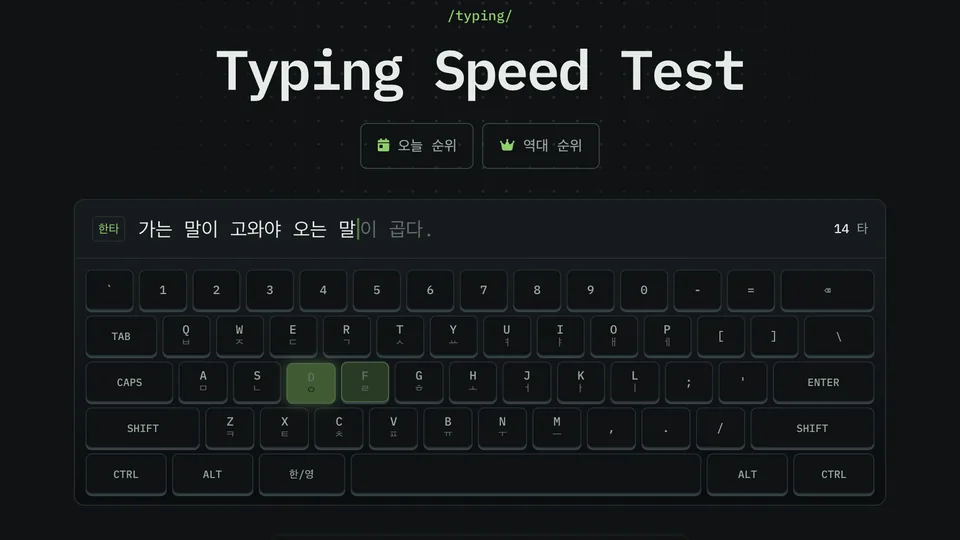
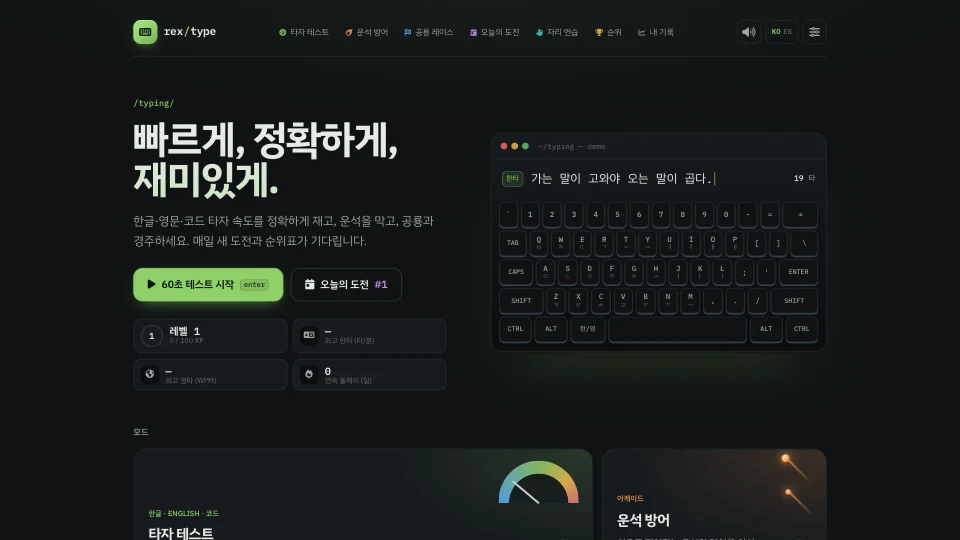
site: the island, palette, social card and README describe rex/type
- the home page's typing panel lists the new modes, with a new capture
  of the game's home
- the palette links straight to meteor defense, the dino race, the
  daily challenge and the key drills
- the social card carries the new description
- README: the typing game's modules, how a run is measured, the
  leaderboard collections and the tests; Bootstrap 4 is gone

diff --git a/index.html b/index.html
@@ -106,10 +106,10 @@
         <section class="stop stop-right" id="typing" data-stop="1" data-place="Stone keyboard" aria-labelledby="typing-title">
             <img class="stop-poster" src="/assets/island/typing.webp" alt="" width="1600" height="900" decoding="async" loading="lazy">
             <div class="panel">
-                <figure class="panel-media"><img src="/assets/island/shots/typing.webp" alt="The typing game: its title above a keyboard that is typing a Korean sentence by itself" width="960" height="540" loading="lazy" decoding="async"></figure>
+                <figure class="panel-media"><img src="/assets/island/shots/typing.webp" alt="The typing game: rex/type's home, its modes beside a keyboard that is typing a Korean sentence by itself" width="960" height="540" loading="lazy" decoding="async"></figure>
                 <span class="eyebrow">/typing/</span>
                 <h2 id="typing-title">Type faster, in Korean or English.</h2>
-                <p>Four modes &mdash; 한타, 영타, a company mode and a developer mode &mdash; with daily and all-time leaderboards on Firebase. The stones out here are only warming up; the real thing keeps score.</p>
+                <p>Speed tests in 한글, English and code, a meteor shower to stop, dinosaurs to race, key drills and a daily challenge &mdash; with daily and all-time leaderboards on Firebase. The stones out here are only warming up; the real thing keeps score.</p>
                 <p class="panel-hint only-keys" data-needs-world><kbd>A</kbd>&ndash;<kbd>Z</kbd> light the stones. Try it.</p>
                 <div class="panel-actions">
                     <a class="btn btn-primary" href="/typing/index.html">Play the typing game <span class="arrow">→</span></a>

diff --git a/js/palette.js b/js/palette.js
@@ -13,7 +13,11 @@
     var INDEX = {
         pages: [
             { title: 'Home', path: '/', hint: 'rexyrex.github.io', keys: 'index start landing rex home' },
-            { title: 'Typing Speed Test', path: '/typing/index.html', hint: '/typing/', keys: 'typing 한타 영타 타자 keyboard wpm leaderboard game' },
+            { title: 'Typing Speed Test', path: '/typing/index.html', hint: '/typing/', keys: 'typing 한타 영타 타자 keyboard wpm leaderboard game test code' },
+            { title: 'Meteor defense', path: '/typing/#/meteor', hint: '/typing/ · type the words before they land', keys: 'typing meteor 운석 산성비 arcade falling words game' },
+            { title: 'Dino race', path: '/typing/#/race', hint: '/typing/ · race three dinosaurs', keys: 'typing race 레이스 공룡 dinosaur versus' },
+            { title: 'Daily typing challenge', path: '/typing/#/daily', hint: '/typing/ · one text a day', keys: 'typing daily 오늘의 도전 challenge share' },
+            { title: 'Key drills', path: '/typing/#/drills', hint: '/typing/ · learn the keyboard', keys: 'typing drills 자리 연습 home row 두벌식 practice' },
             { title: 'Deadly Balloons 3', path: '/deadlyBalloons/index.html', hint: '/deadlyBalloons/', keys: 'balloons browser game bullet hell shooter trailer play' },
             { title: 'Play Deadly Balloons 3', path: '/deadlyBalloons/play/', hint: '/deadlyBalloons/play/', keys: 'balloons play game browser bullet hell shooter' },
             { title: 'Music', path: '/music/showcase.html', hint: '/music/', keys: 'music soundcloud superpose newgrounds tracks audio' },

diff --git a/README.md b/README.md
@@ -7,7 +7,7 @@ Personal GitHub Pages site for [rexyrex](https://github.com/rexyrex) — an inde
 | Path | What it is |
 |---|---|
 | `/` | Home page: **the island**. Eleven stops, one per part of the site; scrolling or pressing a place glides a camera across a live Late Cretaceous island to it, with that section's content in a panel. Stills of every stop stand in where the live world cannot run — see [The island](#the-island-indexhtml) |
-| `/typing/` | Typing speed game — Korean / English / programmer modes, Firebase leaderboards (jQuery + Bootstrap 4.6 + Firebase compat 8) |
+| `/typing/` | **rex/type**, the typing game: speed tests in Korean, English and code, meteor defense, a dino race, key drills and a daily challenge, with Firebase leaderboards. Plain ES modules, no framework — see [The typing game](#the-typing-game-typing) |
 | `/deadlyBalloons/` | Landing page for Deadly Balloons 3 (dependency-free): the trailer (`trailer.mp4`, made with HyperFrames from real gameplay; source and `make.sh` in `_tools/db3-trailer/`) and a link to the game |
 | `/deadlyBalloons/play/` | **Deadly Balloons 3** itself: the production build (`npm run build` → `dist/`) of the private `rexyrex/Deadly-Balloons-3` repository, copied in as is. Relative paths, its own service worker (offline play) and web manifest. Rebuild and recopy to update; never edit it here |
 | `/music/showcase.html` | Music page with a SoundCloud embed and links out |
@@ -32,7 +32,7 @@ Everything is styled from `/css/index.css`:
 - **Eyebrows are real paths.** Section labels like `/apps/` and `/typing/` are the actual URLs of what they introduce.
 - **Cross-document view transitions.** `index.css` opts every page in with `@view-transition { navigation: auto }`, so same-origin navigations crossfade. The top bar and status bar carry `view-transition-name`s (`navbar.css`) and hold still. Reduced motion turns it off.
 
-The typing game has its own stylesheet (`typing/css/typespeed2.css`) layered on top of Bootstrap 4 and `index.css`; the animation lab keeps its effect CSS inline and only its page chrome uses the tokens.
+The typing game has its own stylesheet (`typing/css/typespeed2.css`) on top of `index.css` and nothing else; the animation lab keeps its effect CSS inline and only its page chrome uses the tokens.
 
 ## The island (`/index.html`)
 
@@ -154,16 +154,42 @@ python3 _tools/paths/check.py --update   # after adding pages: appends them to t
 
 `css/motion.css` + `js/motion.js` (dependency-free) reveal `[data-reveal]` elements and the children of `[data-reveal-group]` as they scroll in. Browsers with CSS scroll-driven animations do it in the stylesheet alone (`animation-timeline: view()`, `animation-range: entry 0% entry 40%`) and `motion.js` steps aside when `CSS.supports` says so; everywhere else the script marks `html.motion-ready` and toggles `.is-in` with an IntersectionObserver. Nothing is hidden unless one of the two can reveal it. Page extras:
 
-- `/typing/` — `typing/js/keyboard-hero.js` draws a QWERTY + 두벌식 keyboard in the landing hero and types sample sentences on it, decomposing Hangul syllables into the real jamo keystrokes so the right keys light up (real key presses light them too). It lives inside `.hero-section-typing`, so the game's show/hide logic still covers it.
+- `/typing/` — `typing/js/keyboard-hero.js` draws a QWERTY + 두벌식 keyboard in the game's home view and types sample sentences on it, decomposing Hangul syllables into the real jamo keystrokes so the right keys light up (real key presses light them too). It pauses whenever the home view is hidden.
 - `/deadlyBalloons/` — the balloon rain uses Deadly Balloons 3's own sprites (`res/img/db3/`, exported from the game's texture atlas), varies in size and depth, and balloons pop when clicked (shards, ring, "+100", a counter in the card).
 - `/music/` — a CSS equaliser above the player. `/support/` — a pulsing "replies within a day or two" status. `/404.html` — the rex looks left and right.
+
+## The typing game (`/typing/`)
+
+**rex/type** is one page (`typing/index.html`) with hash routes, so every mode has a link: `#/` home, `#/test`, `#/daily`, `#/drills`, `#/meteor`, `#/race`, `#/ranks`, `#/stats` (and `#/result` after a run). Plain ES modules under `typing/js/`, no framework; the page loads Font Awesome, the Firebase compat SDK (deferred) and `data/simple_words.js` besides.
+
+| Module | Job |
+|---|---|
+| `hangul.js` | Hangul ↔ 두벌식 keystrokes (한 → `gks`). Stroke counts (타수), "is this composing syllable a correct step toward the target" (한 is on the way to 하나: `gks` is a prefix of `gksk`), the next key for the keyboard hint |
+| `engine.js` | `Session`: judges every character, scores lines, keeps the clock and per-second samples. No DOM, tested in Node |
+| `content.js` | Seeded text sources (`makeSource`), balanced line wrapping, the daily text, word pools for the arcade modes, and the original silly-sentence machine (plus the 이포넷 office variant) |
+| `stage.js` | The typing surface: four lines, smooth caret, pace ghost, HUD, and a visible prompt that holds the real `<input>` so the IME composes in it on every platform |
+| `app.js` | Routing, the test / daily / drill flow, results, leaderboards, stats, settings |
+| `result.js` | Result screen: tier badge, numbers, SVG speed chart, character breakdown, missed words, missed-key heat map, share text |
+| `meteor.js`, `race.js` | Meteor defense (falling words, lives, combos, gold / ice / bomb / heart meteors) and the dino race (three bots paced to the player's recent average) |
+| `drills.js`, `keyboard.js` | Key drills (rows, double consonants, numbers, symbols, weak keys) and the on-screen keyboard with finger colours, next-key hints and the heat map |
+| `store.js` | Everything kept on the device, in `localStorage` under `rex-type`: settings, history, personal bests, per-key accuracy, XP and level, streak, achievements |
+| `board.js` | Firestore leaderboards |
+| `i18n.js`, `grades.js`, `sound.js` | Korean / English interface strings, tiers and titles, Web Audio sound effects |
+
+Content lives in `typing/data/`: `ko.js` (proverbs, quotes, sentences, paragraphs, 800 words), `en.js` (top 200 words, quotes, original paragraphs, hard words), `code.js` (12 snippets in each of 10 languages), and the older `simple_words.js` (the normal English list). Every string is plain typeable text: no smart quotes, dashes or tabs. `nouns.js`, `verbs.js`, `adjectives.js` and the old `js/transit.js`, `js/sent_generator.js`, `js/prg_sent.js` are no longer loaded; they stay because published paths stay.
+
+**How a run is measured.** The clock starts at the first keystroke (races start it at the green light). Lines are compared word by word, letter by letter. Speed counts only what ends up correct, spaces and line breaks included: correct jamo keystrokes per minute for Korean (타/분, KPM), correct characters ÷ 5 per minute for English and code (WPM). A line typed exactly advances on its own, and its break counts only if the player then types it (space or Enter). Accuracy counts every character at the moment it was committed, corrected mistakes too. The per-second raw speed and consistency come from keystrokes as they happen. The last syllable of the input is never judged while the IME may still change it. Enter during composition waits for the IME to finish the syllable. A space on an empty word (doubled, or at the start of a line) is ignored, and paste is blocked.
+
+**Leaderboards** (Firebase project `rextypingspeed`). The ranked tests are the 60-second ones: 한글 문장 or 이포넷, English words on normal without punctuation or numbers, and code. They write to the same collections and fields as every earlier version of the game: `records2` / `engRecords` / `prgRecords` (best per name, all time) and `recordsAnon` / `engRecordsAnon` / `prgRecordsAnon` (every finished ranked run, read for today's board by `day`). Meteor defense saves to `meteorRecords`. Nothing is written from a local host (`localhost`, `127.0.0.1`, `*.localhost`, `*.test`), so testing never touches the boards; reads still work. `CLIENT_VERSION` in `board.js` is compared with the `version` collection, and holding the brand mark for three seconds shows that collection's history.
+
+**Tests.** `node _tools/typing/engine.test.mjs` runs the engine against a simulated 두벌식 IME (`_tools/typing/ime.mjs`): composition, corrections, timing, sudden death, line commits.
 
 ## Shared chrome: skip link, navbar, status bar, palette
 
 `navbar.html` is a pure HTML **fragment** (not a standalone page) containing the skip link, the fixed top bar and the fixed bottom **status bar**. `/js/common.js` mounts it into `<div id="nav-placeholder">` on every page, injects `/css/navbar.css`, Font Awesome, the Google Fonts link and `/js/palette.js` if the host page lacks them, highlights the active link, and wires everything:
 
 - **Mounting** — the fragment is cached in `sessionStorage` (`rex-navbar-html`) and mounted synchronously from the cache on the next page, so the bars already exist when a view transition snapshots the new page; the network copy refreshes the cache in the background. A change to `navbar.html` therefore reaches a visitor on their *next* page load.
-- **Skip link** — first in the tab order; `common.js` points it at `<main>` (given `id="main"` and `tabindex="-1"` if missing), or at the first content block on pages without a `<main>` (the typing game, the generated policies).
+- **Skip link** — first in the tab order; `common.js` points it at `<main>` (given `id="main"` and `tabindex="-1"` if missing), or at the first content block on pages without a `<main>` (the generated policies).
 - **Top bar** — typing · balloons · games ↗ · music · apps (→ `/#apps`, lit on every `/apps/…` page via `data-match`) · log · support · github ↗, then the palette button (`⌘K`, `Ctrl K` on other platforms; icon only on touch). The animation lab is reachable from the index, the footer and the palette rather than the top bar. The hidden Parser admin dropdown is still in the fragment.
 - **Status bar** — left: branch (links to the repo) with the age of the last commit from the GitHub API (`api.github.com/repos/…/commits`, cached per tab for ten minutes, silent on failure) and the current path (`~/typing/index.html`); right: a games-portal dot, `Ln` following scroll, `Col` following the pointer, scroll percentage, encoding, the **theme toggle** and a second palette button.
 - **Games ping** — `rexChrome.pingGames()` makes one opaque (`mode: 'no-cors'`) request to `https://games.rexy.win/api/status`: it resolves when the server answers at all and rejects when it does not, so it is an honest "up" that never logs a CORS error. The status API sends no CORS header yet; once games-infra adds `Access-Control-Allow-Origin`, the same call can read per-game status.
@@ -259,8 +285,7 @@ Every `apps/<app_id>/privacy-policy/index.html` is generated by the external **A
 - Three.js 0.187.0, bundled into `/js/world.js` by `_tools/world/build.mjs` (the home page's island; not a CDN dependency)
 - Google Fonts: IBM Plex Mono, IBM Plex Sans KR
 - Font Awesome 6.7.2 (home page easter egg, typing game, animation lab)
-- Bootstrap 4.6.2 + Popper 1.16.1 + jQuery 3.7.1 (typing game only)
-- Bootstrap 5.3.8 (animation lab grid, parser admin tools)
+- Bootstrap 5.3.8 + jQuery 3.7.1 (animation lab grid, parser admin tools)
 - Vue 3.5 (animation lab)
 - Firebase compat 8.2.8 (typing game, parser tools)
 
